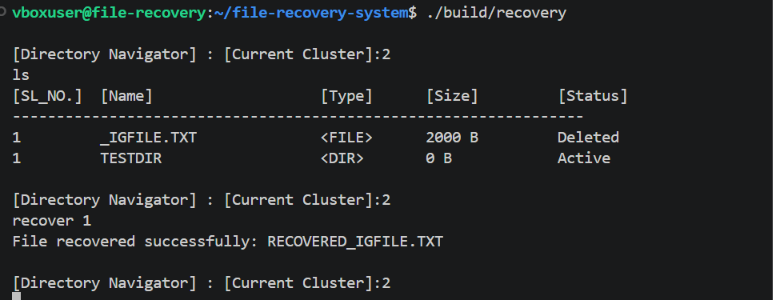
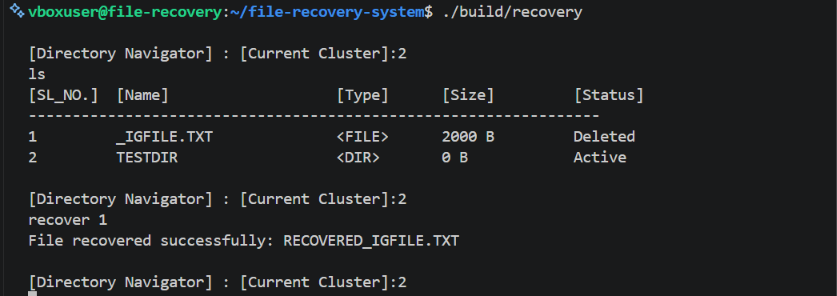
Bug fix

diff --git a/FAT32_Nav.cpp b/FAT32_Nav.cpp
@@ -95,13 +95,13 @@ void listDirectory(FAT32_Directory &dir, uint32_t clusterNumber)
         std::string sizeStr = std::to_string(entry.fileSize) + " B";
 
         std::cout << std::left 
-                  << std::setw(10) << serialStr
+                  << std::setw(10) << serialNumber++
                   << std::setw(25) << filename 
                   << std::setw(12) << typeStr 
                   << std::setw(15) << sizeStr
                   << statusStr << std::endl; 
         return true; });
-        serialNumber++;
+
 }
 
 std::optional<uint32_t> changeDirectory(FAT32_Directory &dir, uint32_t currentCluster, std::string &arg)
